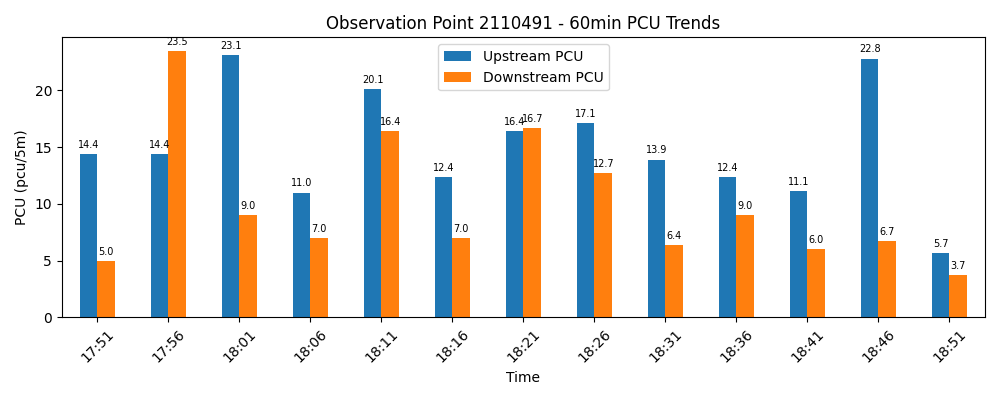
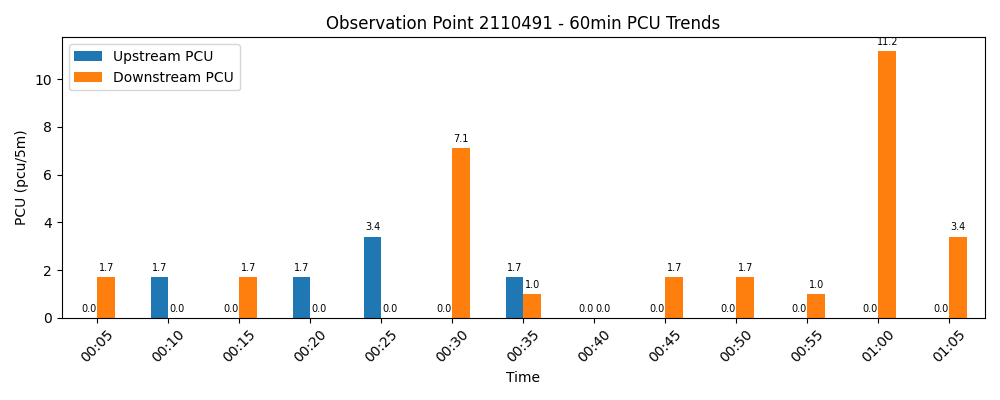
deploy: 8c3de50eabedc6086d7a5aa5160bcc74538cf98d

diff --git a/index.html b/index.html
@@ -17,7 +17,7 @@
             <meta name="viewport" content="width=device-width,
                 initial-scale=1.0, maximum-scale=1.0, user-scalable=no" />
             <style>
-                #map_74198086d156a4793dd45357167ed016 {
+                #map_6ca5283a74ad302a105619a3ebe940e2 {
                     position: relative;
                     width: 100.0%;
                     height: 100.0%;
@@ -54,14 +54,14 @@
 <body>
     
     
-            <div class="folium-map" id="map_74198086d156a4793dd45357167ed016" ></div>
+            <div class="folium-map" id="map_6ca5283a74ad302a105619a3ebe940e2" ></div>
         
 </body>
 <script>
     
     
-            var map_74198086d156a4793dd45357167ed016 = L.map(
-                "map_74198086d156a4793dd45357167ed016",
+            var map_6ca5283a74ad302a105619a3ebe940e2 = L.map(
+                "map_6ca5283a74ad302a105619a3ebe940e2",
                 {
                     center: [38.518722765, 139.9859583],
                     crs: L.CRS.EPSG3857,
@@ -78,7 +78,7 @@
 
         
     
-            var tile_layer_738f3cae0ee67971296e038d6bf35168 = L.tileLayer(
+            var tile_layer_5c313f0b0018f63dc3b0d95f65cb606d = L.tileLayer(
                 "https://tile.openstreetmap.org/{z}/{x}/{y}.png",
                 {
   "minZoom": 0,
@@ -95,17 +95,17 @@
             );
         
     
-            tile_layer_738f3cae0ee67971296e038d6bf35168.addTo(map_74198086d156a4793dd45357167ed016);
+            tile_layer_5c313f0b0018f63dc3b0d95f65cb606d.addTo(map_6ca5283a74ad302a105619a3ebe940e2);
         
     
-            var marker_c6d9da5dde5123db2312a98d7ee7e80d = L.marker(
+            var marker_ddbe5b1c36254df25a5ce34f6b6cbdaf = L.marker(
                 [38.58079849, 139.9398136],
                 {
 }
-            ).addTo(map_74198086d156a4793dd45357167ed016);
+            ).addTo(map_6ca5283a74ad302a105619a3ebe940e2);
         
     
-            var icon_59daf82385c1d5f97fdb2195ef87bf6d = L.AwesomeMarkers.icon(
+            var icon_a1bb48013d1182e2c9160ca097fbae36 = L.AwesomeMarkers.icon(
                 {
   "markerColor": "blue",
   "iconColor": "white",
@@ -116,26 +116,26 @@
             );
         
     
-        var popup_343bd7a35188fcf1861b4e044da9a560 = L.popup({
+        var popup_77432fac6ccaa4b5f4a073b8d025059b = L.popup({
   "maxWidth": 450,
 });
 
         
             
-                var html_a71f95289fa475a9d51c0c54fe2a4003 = $(`<div id="html_a71f95289fa475a9d51c0c54fe2a4003" style="width: 100.0%; height: 100.0%;">         <h4>地点コード: 2110491</h4>         <p>更新時刻: 2026-07-02 18:51</p>         <p><b>上り:</b> 5.7 pcu/5m<br><b>下り:</b> 3.7 pcu/5m</p>         <img src="charts/chart_2110491.png" width="400">         </div>`)[0];
-                popup_343bd7a35188fcf1861b4e044da9a560.setContent(html_a71f95289fa475a9d51c0c54fe2a4003);
+                var html_fe36f617890fbc406f88476a974f5267 = $(`<div id="html_fe36f617890fbc406f88476a974f5267" style="width: 100.0%; height: 100.0%;">         <h4>地点コード: 2110491</h4>         <p>更新時刻: 2026-07-03 01:05</p>         <p><b>上り:</b> 0.0 pcu/5m<br><b>下り:</b> 3.4 pcu/5m</p>         <img src="charts/chart_2110491.png" width="400">         </div>`)[0];
+                popup_77432fac6ccaa4b5f4a073b8d025059b.setContent(html_fe36f617890fbc406f88476a974f5267);
             
         
 
-        marker_c6d9da5dde5123db2312a98d7ee7e80d.bindPopup(popup_343bd7a35188fcf1861b4e044da9a560)
+        marker_ddbe5b1c36254df25a5ce34f6b6cbdaf.bindPopup(popup_77432fac6ccaa4b5f4a073b8d025059b)
         ;
 
         
     
     
-            marker_c6d9da5dde5123db2312a98d7ee7e80d.bindTooltip(
+            marker_ddbe5b1c36254df25a5ce34f6b6cbdaf.bindTooltip(
                 `<div>
-                     地点 2110491 (上り:5.7 / 下り:3.7)
+                     地点 2110491 (上り:0.0 / 下り:3.4)
                  </div>`,
                 {
   "sticky": true,
@@ -143,17 +143,17 @@
             );
         
     
-                marker_c6d9da5dde5123db2312a98d7ee7e80d.setIcon(icon_59daf82385c1d5f97fdb2195ef87bf6d);
+                marker_ddbe5b1c36254df25a5ce34f6b6cbdaf.setIcon(icon_a1bb48013d1182e2c9160ca097fbae36);
             
     
-            var marker_f5462051821a90d788391e18aec8f84e = L.marker(
+            var marker_88dd5528bb63d6d2672224edbaae763d = L.marker(
                 [38.45664704, 140.032103],
                 {
 }
-            ).addTo(map_74198086d156a4793dd45357167ed016);
+            ).addTo(map_6ca5283a74ad302a105619a3ebe940e2);
         
     
-            var icon_46329fc18df12344ec2fe59d36e51210 = L.AwesomeMarkers.icon(
+            var icon_09c4de8f2d1b3f872f978d9014b2af0e = L.AwesomeMarkers.icon(
                 {
   "markerColor": "blue",
   "iconColor": "white",
@@ -164,26 +164,26 @@
             );
         
     
-        var popup_3aa3c2db43c39a2339534b90cba36057 = L.popup({
+        var popup_b77c20aeadd9271792255eaf59366223 = L.popup({
   "maxWidth": 450,
 });
 
         
             
-                var html_0e203183f2981bcacc6531a7a45be7a8 = $(`<div id="html_0e203183f2981bcacc6531a7a45be7a8" style="width: 100.0%; height: 100.0%;">         <h4>地点コード: 2110488</h4>         <p>更新時刻: 2026-07-02 18:51</p>         <p><b>上り:</b> 6.0 pcu/5m<br><b>下り:</b> 3.0 pcu/5m</p>         <img src="charts/chart_2110488.png" width="400">         </div>`)[0];
-                popup_3aa3c2db43c39a2339534b90cba36057.setContent(html_0e203183f2981bcacc6531a7a45be7a8);
+                var html_695cdf1c96b38807cdd94c9a37b319e8 = $(`<div id="html_695cdf1c96b38807cdd94c9a37b319e8" style="width: 100.0%; height: 100.0%;">         <h4>地点コード: 2110488</h4>         <p>更新時刻: 2026-07-03 01:05</p>         <p><b>上り:</b> 0.0 pcu/5m<br><b>下り:</b> 1.7 pcu/5m</p>         <img src="charts/chart_2110488.png" width="400">         </div>`)[0];
+                popup_b77c20aeadd9271792255eaf59366223.setContent(html_695cdf1c96b38807cdd94c9a37b319e8);
             
         
 
-        marker_f5462051821a90d788391e18aec8f84e.bindPopup(popup_3aa3c2db43c39a2339534b90cba36057)
+        marker_88dd5528bb63d6d2672224edbaae763d.bindPopup(popup_b77c20aeadd9271792255eaf59366223)
         ;
 
         
     
     
-            marker_f5462051821a90d788391e18aec8f84e.bindTooltip(
+            marker_88dd5528bb63d6d2672224edbaae763d.bindTooltip(
                 `<div>
-                     地点 2110488 (上り:6.0 / 下り:3.0)
+                     地点 2110488 (上り:0.0 / 下り:1.7)
                  </div>`,
                 {
   "sticky": true,
@@ -191,7 +191,7 @@
             );
         
     
-                marker_f5462051821a90d788391e18aec8f84e.setIcon(icon_46329fc18df12344ec2fe59d36e51210);
+                marker_88dd5528bb63d6d2672224edbaae763d.setIcon(icon_09c4de8f2d1b3f872f978d9014b2af0e);
             
 </script>
 </html>
